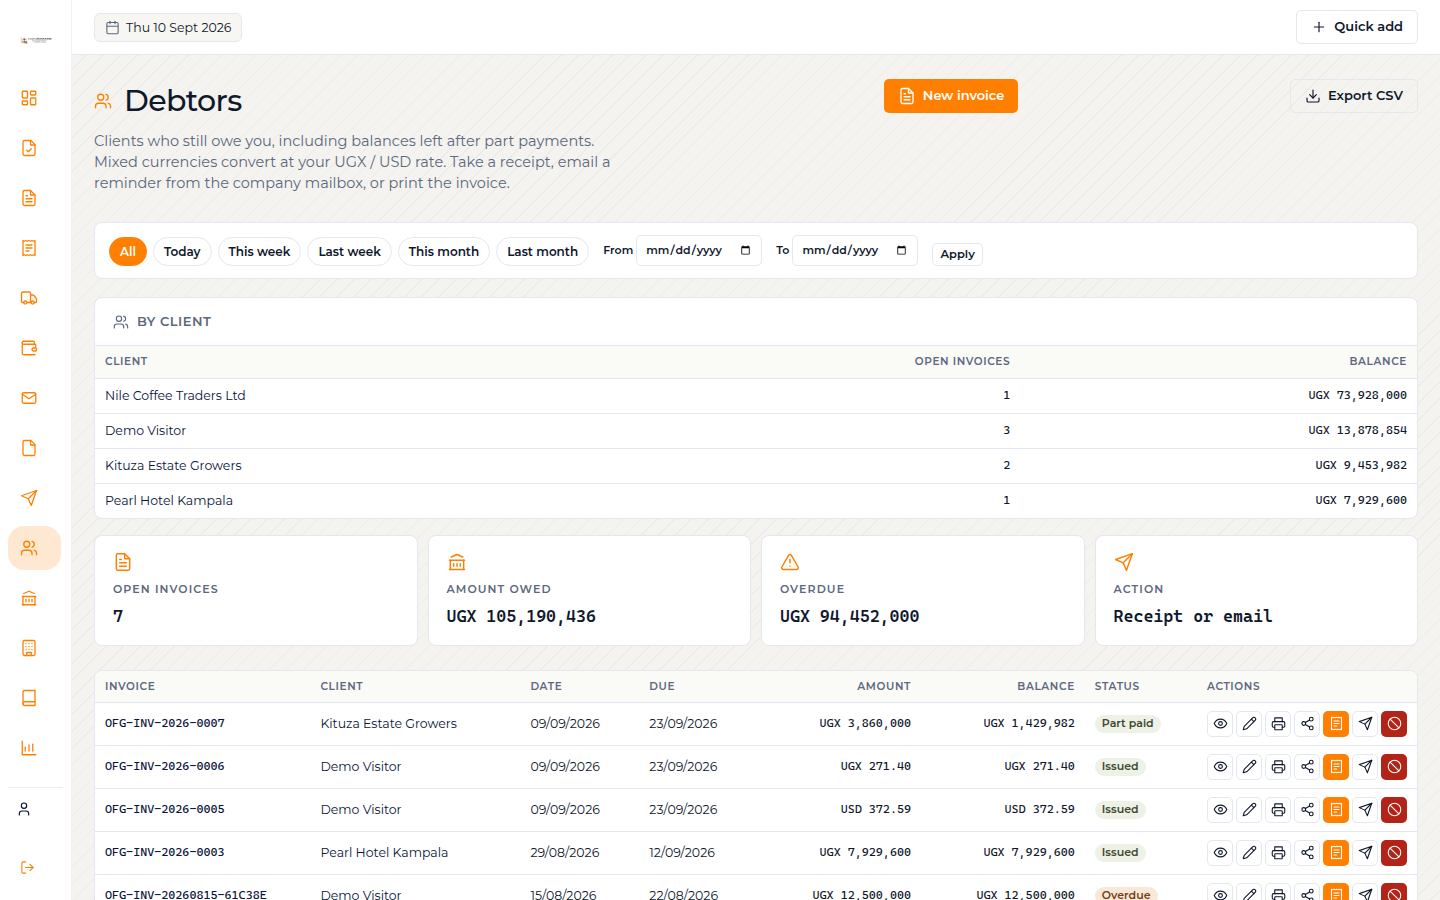
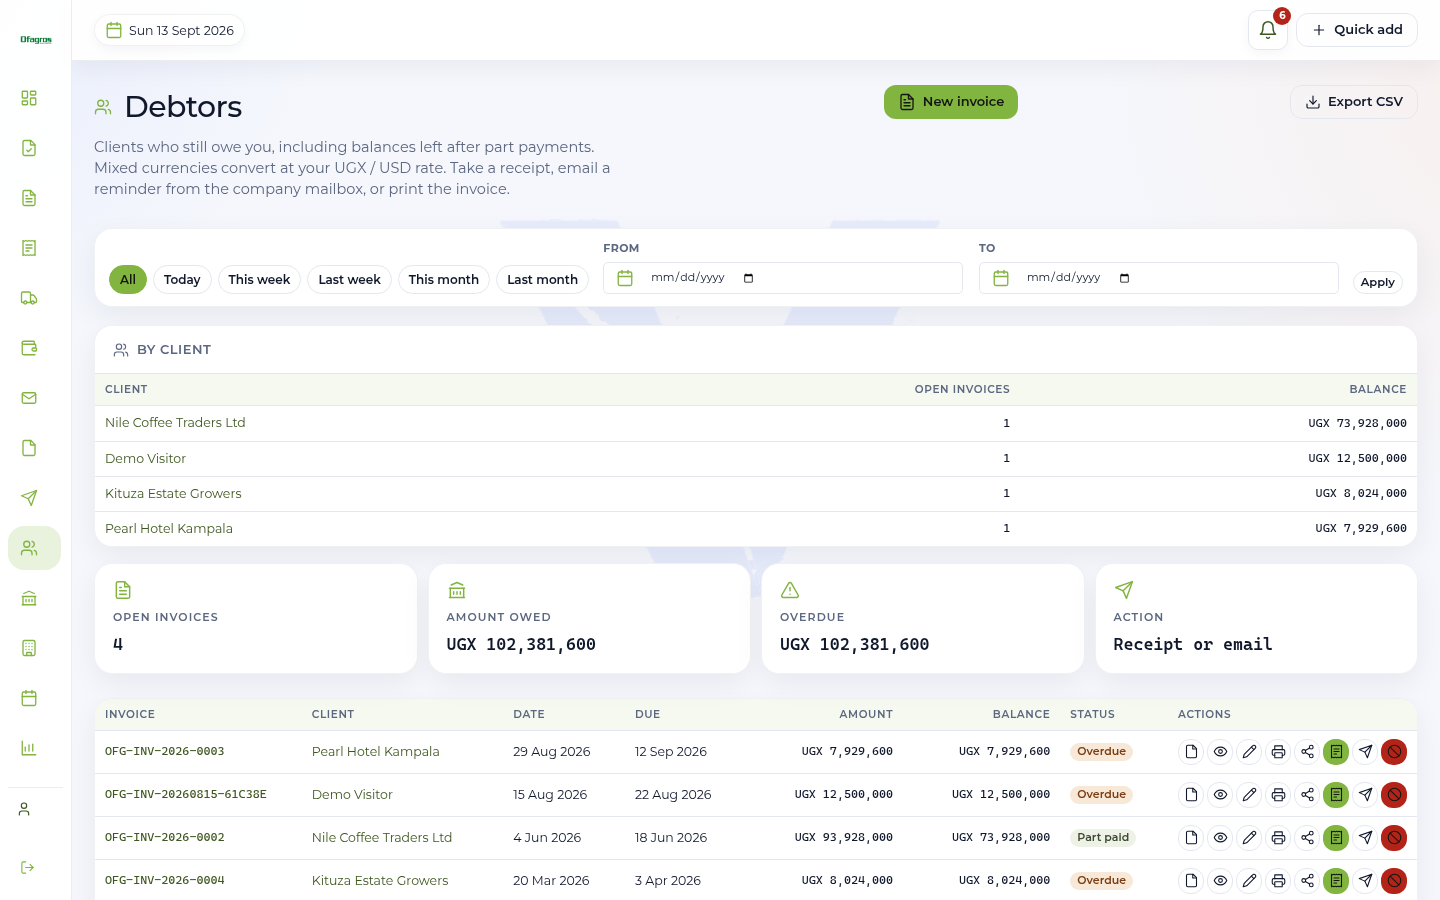
Refresh tutorials with current screenshots and new desk lessons.
Keep the lesson layout. Reshoot every tab, add Planner, notifications and P&L, and update the copy for two colours, currency on Desk, and the document designs.

diff --git a/assets/css/app.css b/assets/css/app.css
@@ -1446,6 +1446,9 @@ table.grid tfoot td {
   align-items: center;
   padding-top: 4px;
 }
+@media (max-width: 420px) {
+  .desk-fx { grid-template-columns: 1fr; }
+}
 .doc-side {
   border: 1px solid var(--line);
   border-radius: 12px;

diff --git a/tutorials.php b/tutorials.php
@@ -21,12 +21,12 @@ $lessons = [
         'icon' => 'desk',
         'title' => 'The desk',
         'file' => 'desk.png',
-        'alt' => 'Vellisys desk home with open invoices and this month\'s totals',
-        'lead' => 'Sign in and you land on Desk. That is the morning list: who still owes you, what you invoiced this month, and a short trail of recent documents.',
+        'alt' => 'Desk home with greeting card, main currency, USD rate, open invoices and this month\'s totals',
+        'lead' => 'Sign in and you land on Desk. The greeting card names the company, you, the home currency and the USD rate. Below that is who still owes you, this month\'s totals, and a short trail of recent documents.',
         'points' => [
             'Start here every day. Overdue invoices sit at the top so you chase them first.',
             'Quick add (the plus on the top bar) opens a quotation, invoice, receipt, expense, letter, email or client without hunting the menu.',
-            'The coloured rail on the left is your company. Hover it on a computer, or use the menu button on a phone - topics sit in two columns on a small screen.',
+            'The bell (when Planner is on) lists deadlines and invoices you can Receive. The rail on the left is your company. Hover it on a computer, or use the menu button on a phone.',
         ],
     ],
     [
@@ -76,9 +76,9 @@ $lessons = [
         'alt' => 'A branded invoice with totals and payment details',
         'lead' => 'Invoices are what you are owed. Due dates feed Debtors. Part payments stay honest.',
         'points' => [
-            'Issue in your currency, or in USD. The rate lives in Settings so reports can add them up.',
-            'Print, share a link, or email the sheet. The letterhead is yours: logo, three colours, bank details, TIN.',
-            'Record a receipt against the invoice when money lands. The balance drops. Full or part - both work.',
+            'Issue in your currency, or in USD. The rate lives in Settings and on the Desk greeting card so reports can add them up.',
+            'Print, share a link, or email the sheet. The letterhead is yours: logo, two colours, bank details, TIN. On a phone the page is the same A4 sheet, scaled to fit.',
+            'Record a receipt against the invoice when money lands. The balance drops. Full or part - both work. Receive is also on the notifications bell when Planner is on.',
         ],
     ],
     [
@@ -168,7 +168,7 @@ $lessons = [
         'lead' => 'Debtors is who has not finished paying. Open invoices, aged balances, one place to chase.',
         'points' => [
             'The list groups by client and ages the unpaid balances: current, 1-30, 31-60, and so on.',
-            'Open an invoice to take a receipt, or use Remind to email the client from the company mailbox.',
+            'Open an invoice to take a receipt, or use Remind to email the client from the company mailbox. Receive on the bell does the same job from Desk.',
             'Export CSV when you need the aging in a spreadsheet. Never delete a paid invoice to clean up.',
         ],
     ],
@@ -183,6 +183,45 @@ $lessons = [
             'Each unpaid expense sits here with amount, paid so far, and balance.',
             'Pay from the row, or Message the supplier - that letter leaves from the company mailbox.',
             'Keep supplier names consistent so the same firm does not appear twice on the list.',
+        ],
+    ],
+    [
+        'id' => 'planner',
+        'icon' => 'calendar',
+        'title' => 'Planner',
+        'file' => 'planner.png',
+        'alt' => 'Planner with this week\'s events, priority notes and budget versus actuals',
+        'lead' => 'Planner is notes, a budget and a calendar for programmes, appointments and deadlines. It is on Business and Pro desks for the company admin.',
+        'points' => [
+            'Open Planner from the rail. Add a note, a budget line for the month, or an event on the calendar.',
+            'Essential and high notes, plus invoices that are due, also appear in the bell on the top bar.',
+            'If the tab is missing, this desk is on Starter, or Vellisys has not switched Planner on. Ask for Business or Pro.',
+        ],
+    ],
+    [
+        'id' => 'notify',
+        'icon' => 'bell',
+        'title' => 'Notifications',
+        'file' => 'notify.png',
+        'alt' => 'Notifications window with upcoming invoices and a Receive action',
+        'lead' => 'The bell on the top bar is the morning list from Planner: events, essential notes, and invoices that still need a receipt.',
+        'points' => [
+            'Open the bell. Each row has Dismiss, plus Open, View, Done or Receive.',
+            'Receive on an invoice opens the receipt form. The word is white on the brand button so you can read it.',
+            'Open Planner at the foot of the list when you want the full week, not only the next few items.',
+        ],
+    ],
+    [
+        'id' => 'pnl',
+        'icon' => 'reports',
+        'title' => 'Profit and loss',
+        'file' => 'pnl.png',
+        'alt' => 'Profit and loss with income, expenses, net profit and cash movement charts',
+        'lead' => 'P&L tot up income, expenses, refunds and returns for the dates you pick, with net profit on one desk. It is on Pro desks for the company admin.',
+        'points' => [
+            'Open P&L. Filter the period the same way as Reports. Ledger, Refund and Return sit next to New entry.',
+            'Refunds and returns are not on the main rail - they live here so the profit figure stays honest.',
+            'If the tab is missing, ask Vellisys to put the desk on Pro, or to switch P&L on.',
         ],
     ],
     [
@@ -208,7 +247,7 @@ $lessons = [
         'points' => [
             'This month is the usual view for a Friday meeting. Last month is for the file you already closed.',
             'Custom from/to is for a job that crossed months, or a tax quarter.',
-            'The same chips sit on Reports, so the charts match the table you just filtered.',
+            'The same chips sit on Reports and P&L, so the charts match the table you just filtered.',
         ],
     ],
     [
@@ -220,7 +259,7 @@ $lessons = [
         'lead' => 'Every sheet can leave the desk without a PDF attachment hunt. Print it, email it, or send the link on WhatsApp.',
         'points' => [
             'Open any quotation, invoice, receipt or letter. Print opens the sheet. Share offers WhatsApp and Email.',
-            'The share link is the branded page the client sees. They can print from there. No login required.',
+            'The share link is the branded page the client sees. They can print from there. No login required. On a phone the sheet is still the A4 page, scaled to the screen.',
             'WhatsApp opens with the document link already in the message. Email sends the sheet from the company mailbox.',
         ],
     ],
@@ -229,10 +268,10 @@ $lessons = [
         'icon' => 'settings',
         'title' => 'Settings and brand',
         'file' => 'settings.png',
-        'alt' => 'Settings with logo upload and three brand colours',
-        'lead' => 'Logo, three colours, TIN, bank, document prefix, and the currency you bill in. One design prints on every sheet. Only the company admin opens Settings.',
+        'alt' => 'Settings Appearance with logo upload and two brand colours',
+        'lead' => 'Logo, two colours, TIN, bank, document prefix, and the currency you bill in. One design prints on every sheet. Only the company admin opens Settings.',
         'points' => [
-            'Primary paints the desk. Accent and deep colour the document designs. Pick a template under Templates.',
+            'Primary paints the desk and the strong bars. Accent marks rails, rules and highlights. Type on those colours is black or white, whichever reads.',
             'The sending mailbox is assigned by Vellisys. You can see the address. You cannot change the password.',
             'If a colour or logo is wrong, fix it here. Old documents keep the layout you pick now when you reprint.',
         ],
@@ -242,11 +281,11 @@ $lessons = [
         'icon' => 'palette',
         'title' => 'Document designs',
         'file' => 'designs.png',
-        'alt' => 'Twelve document layouts including logo watermark and bond watermark',
+        'alt' => 'Twelve document layouts including corner bill, accent bill, logo watermark and bond watermark',
         'lead' => 'Twelve layouts live under Settings, Templates. Pick one and every quotation, invoice, receipt, expense and headed note reprints in that paper.',
         'points' => [
-            'Logo watermark puts the company mark faint in the centre of a white sheet. Bond watermark does the same on cream paper, tilted.',
-            'Estate panel and Harbour block use solid colour bands - no fades, no washes - so they print cleanly.',
+            'Corner bill and Accent bill put primary and accent triangles on the paper corners. Logo watermark and Bond watermark print the company mark faint in the middle; Bond tilts it.',
+            'Estate panel and Harbour block use solid colour bands - no fades, no washes - so they print cleanly. On a phone you see the same A4 sheet as print, scaled to fit.',
             'Changing the design here reprints the whole books. Correspondence text stays editable; only the paper around it changes.',
         ],
     ],
@@ -256,7 +295,7 @@ $lessons = [
         'title' => 'Currency and rate',
         'file' => 'currency.png',
         'alt' => 'Settings tax with home currency and USD exchange rate',
-        'lead' => 'The desk has a home currency. You can still issue a sheet in USD. Settings holds the rate: 1 USD equals n of your currency.',
+        'lead' => 'The desk has a home currency. You can still issue a sheet in USD. Settings holds the rate: 1 USD equals n of your currency. Desk shows both on the greeting card.',
         'points' => [
             'Open Settings, Tax. Pick UGX, KES, EUR or type any three-letter code. Set how many of that currency equal one US dollar.',
             'Reports convert everything back to the home currency so the month still adds up.',
@@ -273,7 +312,7 @@ $lessons = [
         'points' => [
             'Settings, People. Add a name, title, email, access and a temporary password.',
             'Books sees documents, clients, debtors, creditors and email. Sales sees quotations, invoices, receipts, clients and email. Neither opens Reports or Settings.',
-            'Reset a password from the same list. People change their own password under Password in the menu.',
+            'Reset a password from the same list. People change their own password with Change my password on that page.',
         ],
     ],
     [
@@ -284,7 +323,7 @@ $lessons = [
         'alt' => 'Password page to change the signed-in login',
         'lead' => 'Anyone on the desk can change their own password. The company admin can also reset passwords under Settings, People.',
         'points' => [
-            'Open Password in the menu. Enter the current password, then the new one twice. At least 8 characters.',
+            'Open Change my password from Settings, People. Enter the current password, then the new one twice. At least 8 characters.',
             'This is your login, not the company sending mailbox. Outgoing mail still leaves as the company.',
             'If you forget it, the company admin resets it. Super admin can also reach the desk if the company is locked out.',
         ],
